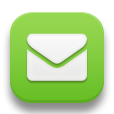
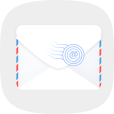
* 修改首页图标 + 通讯录列表添加头像

diff --git a/html/contact.html b/html/contact.html
@@ -23,21 +23,34 @@
 <script src="../lib/knockout/knockout.js"></script>
 <script src="../lib/knockout/knockout.mapping.js"></script>
 <script src="../lib/app/contact/app.js"></script>
-	<style>
-		#wrapper {
-			position: fixed;
-			overflow: scroll;
-			top: 100px;
-			left: 2%;
-			bottom: 1.5em;
-			width: 96%;
-		}
-		#divContact{
-    background-image: url('../assets/home/contact.png');
-    background-repeat: no-repeat;
-    background-position: center;
-		}
-	</style>
+<style type="text/css">
+	#wrapper {
+		position: fixed;
+		overflow: scroll;
+		top: 100px;
+		left: 2%;
+		bottom: 1.5em;
+		width: 96%;
+	}
+	#divContact{
+	    background-image: url('../assets/home/contact.png');
+	    background-repeat: no-repeat;
+	    background-position: center;
+	}
+	.ui-li-thumb, .ui-listview .ui-li-icon {
+		max-height: 300px;
+    }
+    
+    .ui-listview>.ui-li.ui-last-child .ui-li-thumb:not(.ui-li-icon) {
+		-webkit-border-bottom-left-radius: initial;
+		border-bottom-left-radius: initial;
+	}
+	
+	.ui-listview>.ui-li.ui-first-child .ui-li-thumb:not(.ui-li-icon) {
+		-webkit-border-top-left-radius: initial;
+		border-top-left-radius: initial;
+	}
+</style>
 </head>
 <body>
 	<div id="list" data-role="page">
@@ -66,7 +79,10 @@
 							<br />
 							<ul data-bind="foreach: data" data-role="listview"
 								data-inset="true" id="contactList">
-								<li><font>员工编号：<span data-bind="text: uid"></span></font><br>
+								<li>
+								<img src="../assets/contact/default_avatar.png" 
+                                    style="margin-left: 10px; margin-top: 10px; margin-right: 10px; vertical-align: middle;" />
+								    <font>员工编号：<span data-bind="text: uid"></span></font><br>
 									<font>员工姓名：<span data-bind="text: displayName"></span></font><br>
 									<font>电子邮箱：<span data-bind="text: mail"></span></font><br>
 									<font>所属公司:<span data-bind="text: crscCompanyName"></span></font><br>

diff --git a/html/home.html b/html/home.html
@@ -6,6 +6,7 @@
 <link rel="stylesheet" href="../lib/swiper/idangerous.swiper.css">
 <link rel="stylesheet" href="../assets/home/swiper/swiper.css">
 <script src="../lib/jquery/jquery.min.js"></script>
+<script src="../lib/jquery-mobile/jquery.mobile.min.js"></script>
 <script src="../lib/jquery-cookie/jquery.cookie.js"></script>
 <script src="../lib/encrypt/encrypt.js"></script>
 <script src="../lib/json/json2.js"></script>
@@ -269,9 +270,9 @@ a {
   
 </style>
 </head>
-<body>
+<body >
 <!-- <body class="ui-mobile-viewport ui-overlay-c"> -->
-	<div data-role="page" id="home" style="background-image: url(../assets/home/bg_empty.jpg); min-height: 100%; background-position: initial initial; background-repeat: repeat repeat;" data-url="home" tabindex="0" class="ui-page ui-body-c ui-page-active">
+	<div data-role="page" id="home" data-url="home" tabindex="0" class="ui-page ui-body-c ui-page-active" style="background: #FFF;">
 		<div data-role="content" align="center" class="ui-content" role="main">
 		      <div class="swiper-container">
 	              <div id="tpxwSwiper" class="swiper-wrapper"

diff --git a/lib/app/contact/app.js b/lib/app/contact/app.js
@@ -34,6 +34,10 @@ function searchContact(){
 	soap+='<soapenv:Header></soapenv:Header> <soapenv:Body>';
 	soap+='<web:searchUser>'+'<arg0>'+currentUser+'</arg0>'+'<arg1>'+searchStr+'</arg1>'+'<arg2>'+currentPage+'</arg2>'+'<arg3>'+pageSzie+'</arg3>'+'</web:searchUser>';
 	soap+="</soapenv:Body></soapenv:Envelope>";
+	/*var soap ='$lt;soapenv:Envelope xmlns:soapenv="http://schemas.xmlsoap.org/soap/envelope/" xmlns:urn="urn:DefaultNamespace" xmlns:web="http://webService.contant.com/"$gt;';
+	soap+='$lt;soapenv:Header$gt;$lt;/soapenv:Header$gt; $lt;soapenv:Body$gt;';
+	soap+='$lt;web:searchUser$gt;'+'$lt;arg0$gt;'+currentUser+'$lt;/arg0$gt;'+'$lt;arg1$gt;'+searchStr+'$lt;/arg1$gt;'+'$lt;arg2$gt;'+currentPage+'$lt;/arg2$gt;'+'$lt;arg3$gt;'+pageSzie+'$lt;/arg3$gt;'+'$lt;/web:searchUser$gt;';
+	soap+="$lt;/soapenv:Body$gt;$lt;/soapenv:Envelope$gt;";*/
[1 lines of base64/hex data omitted]
 	var date = "data-xml="+soap;
 	$.hori.ajax({
